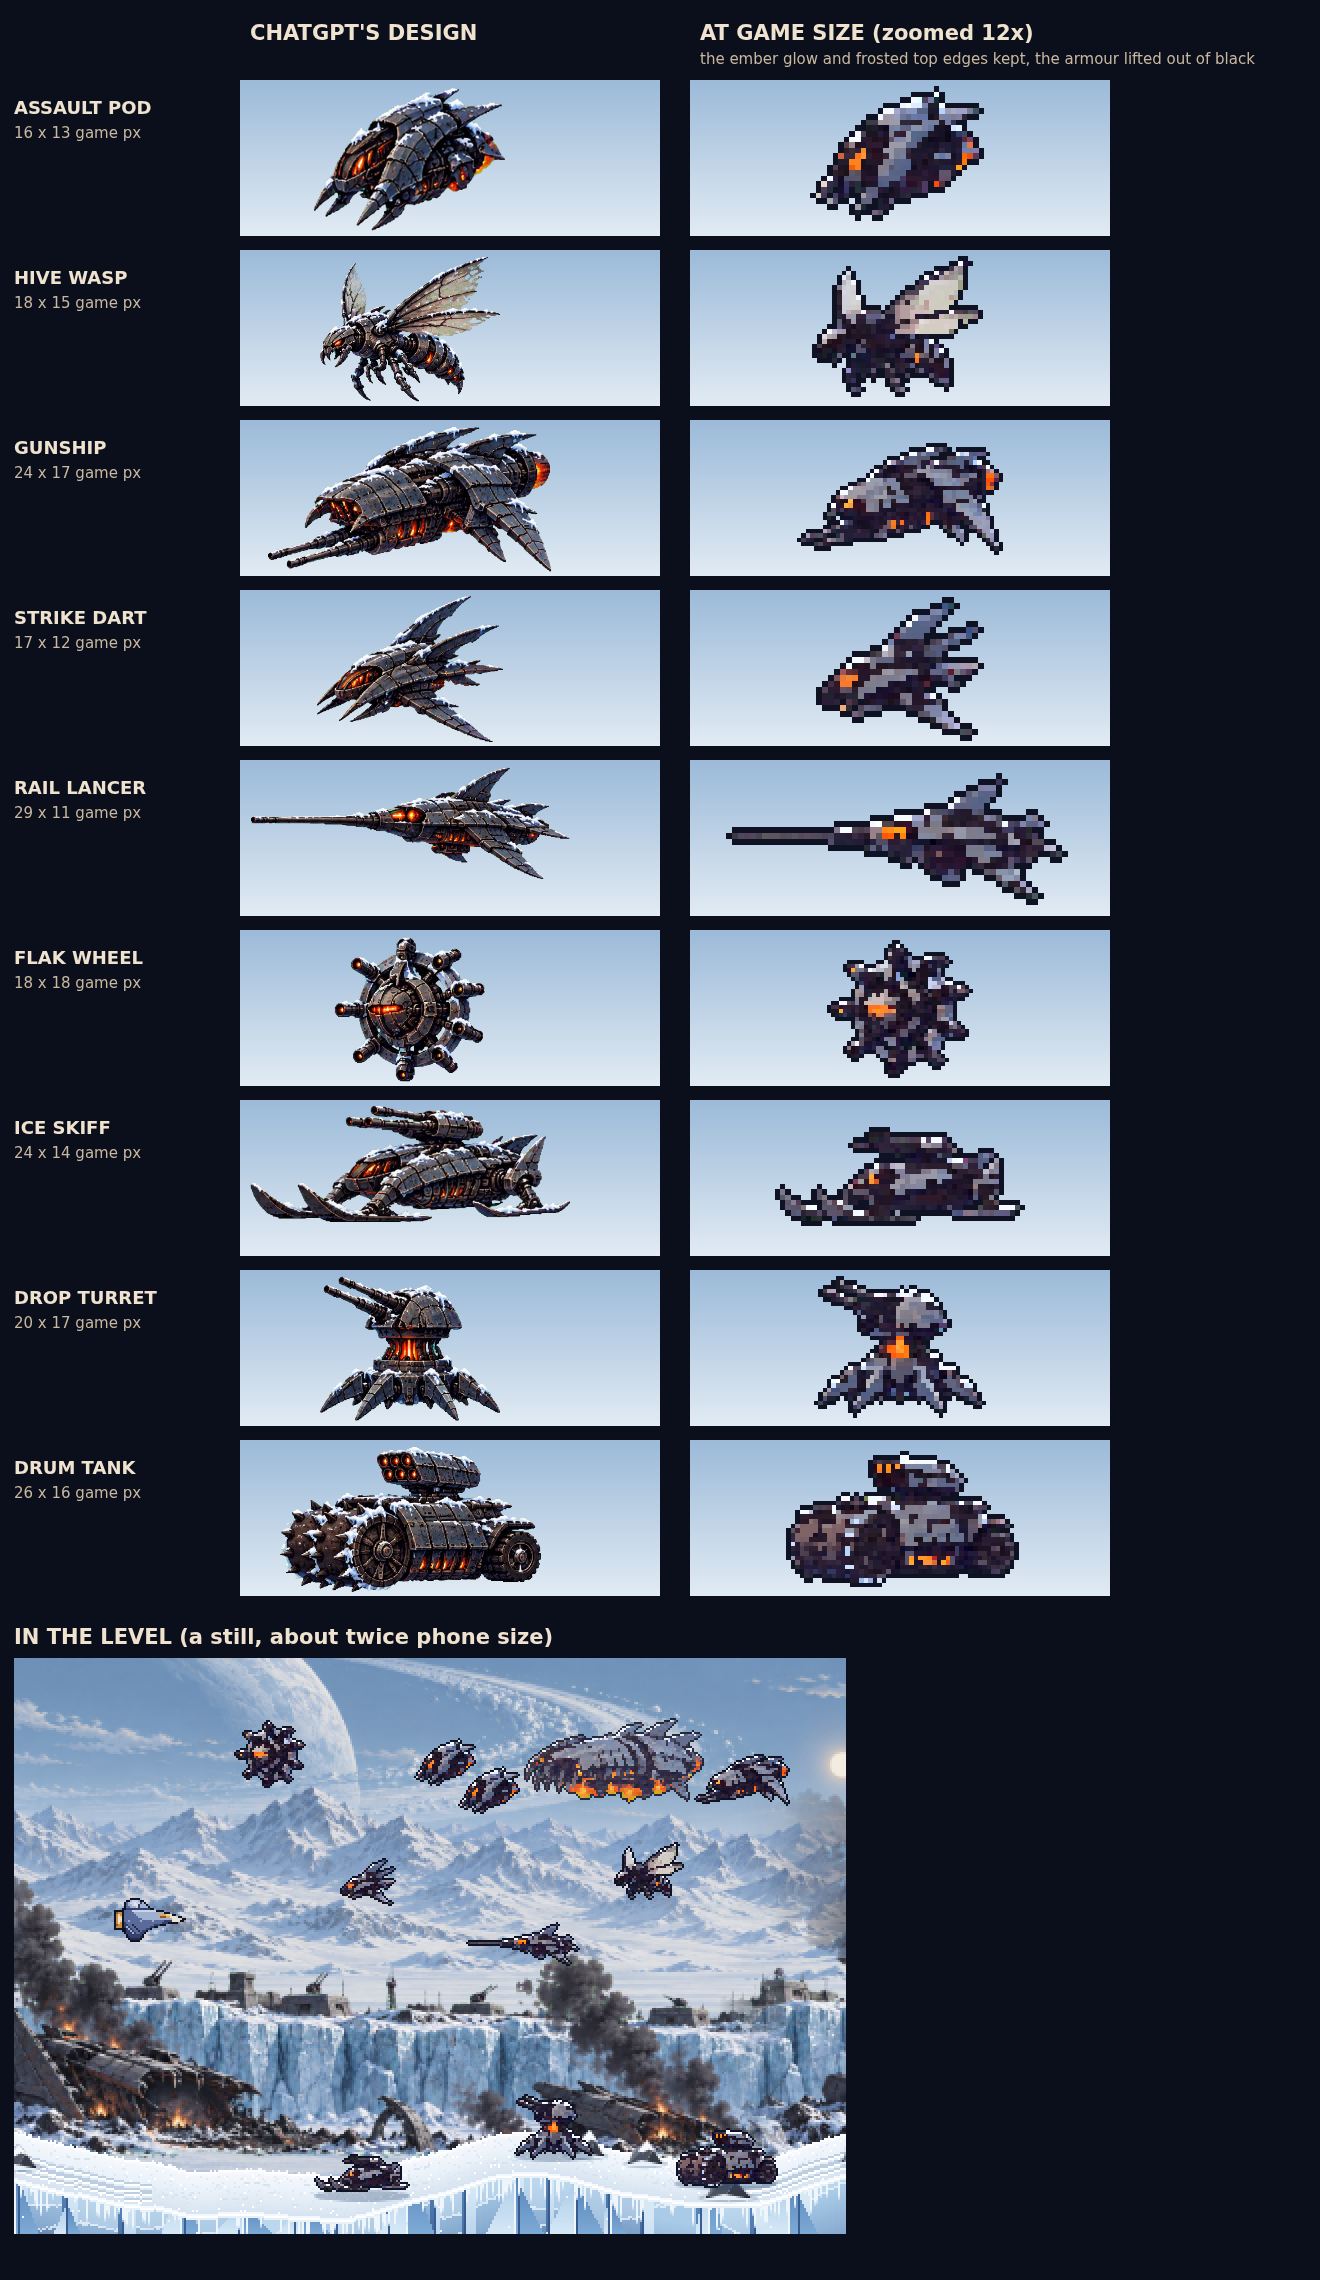
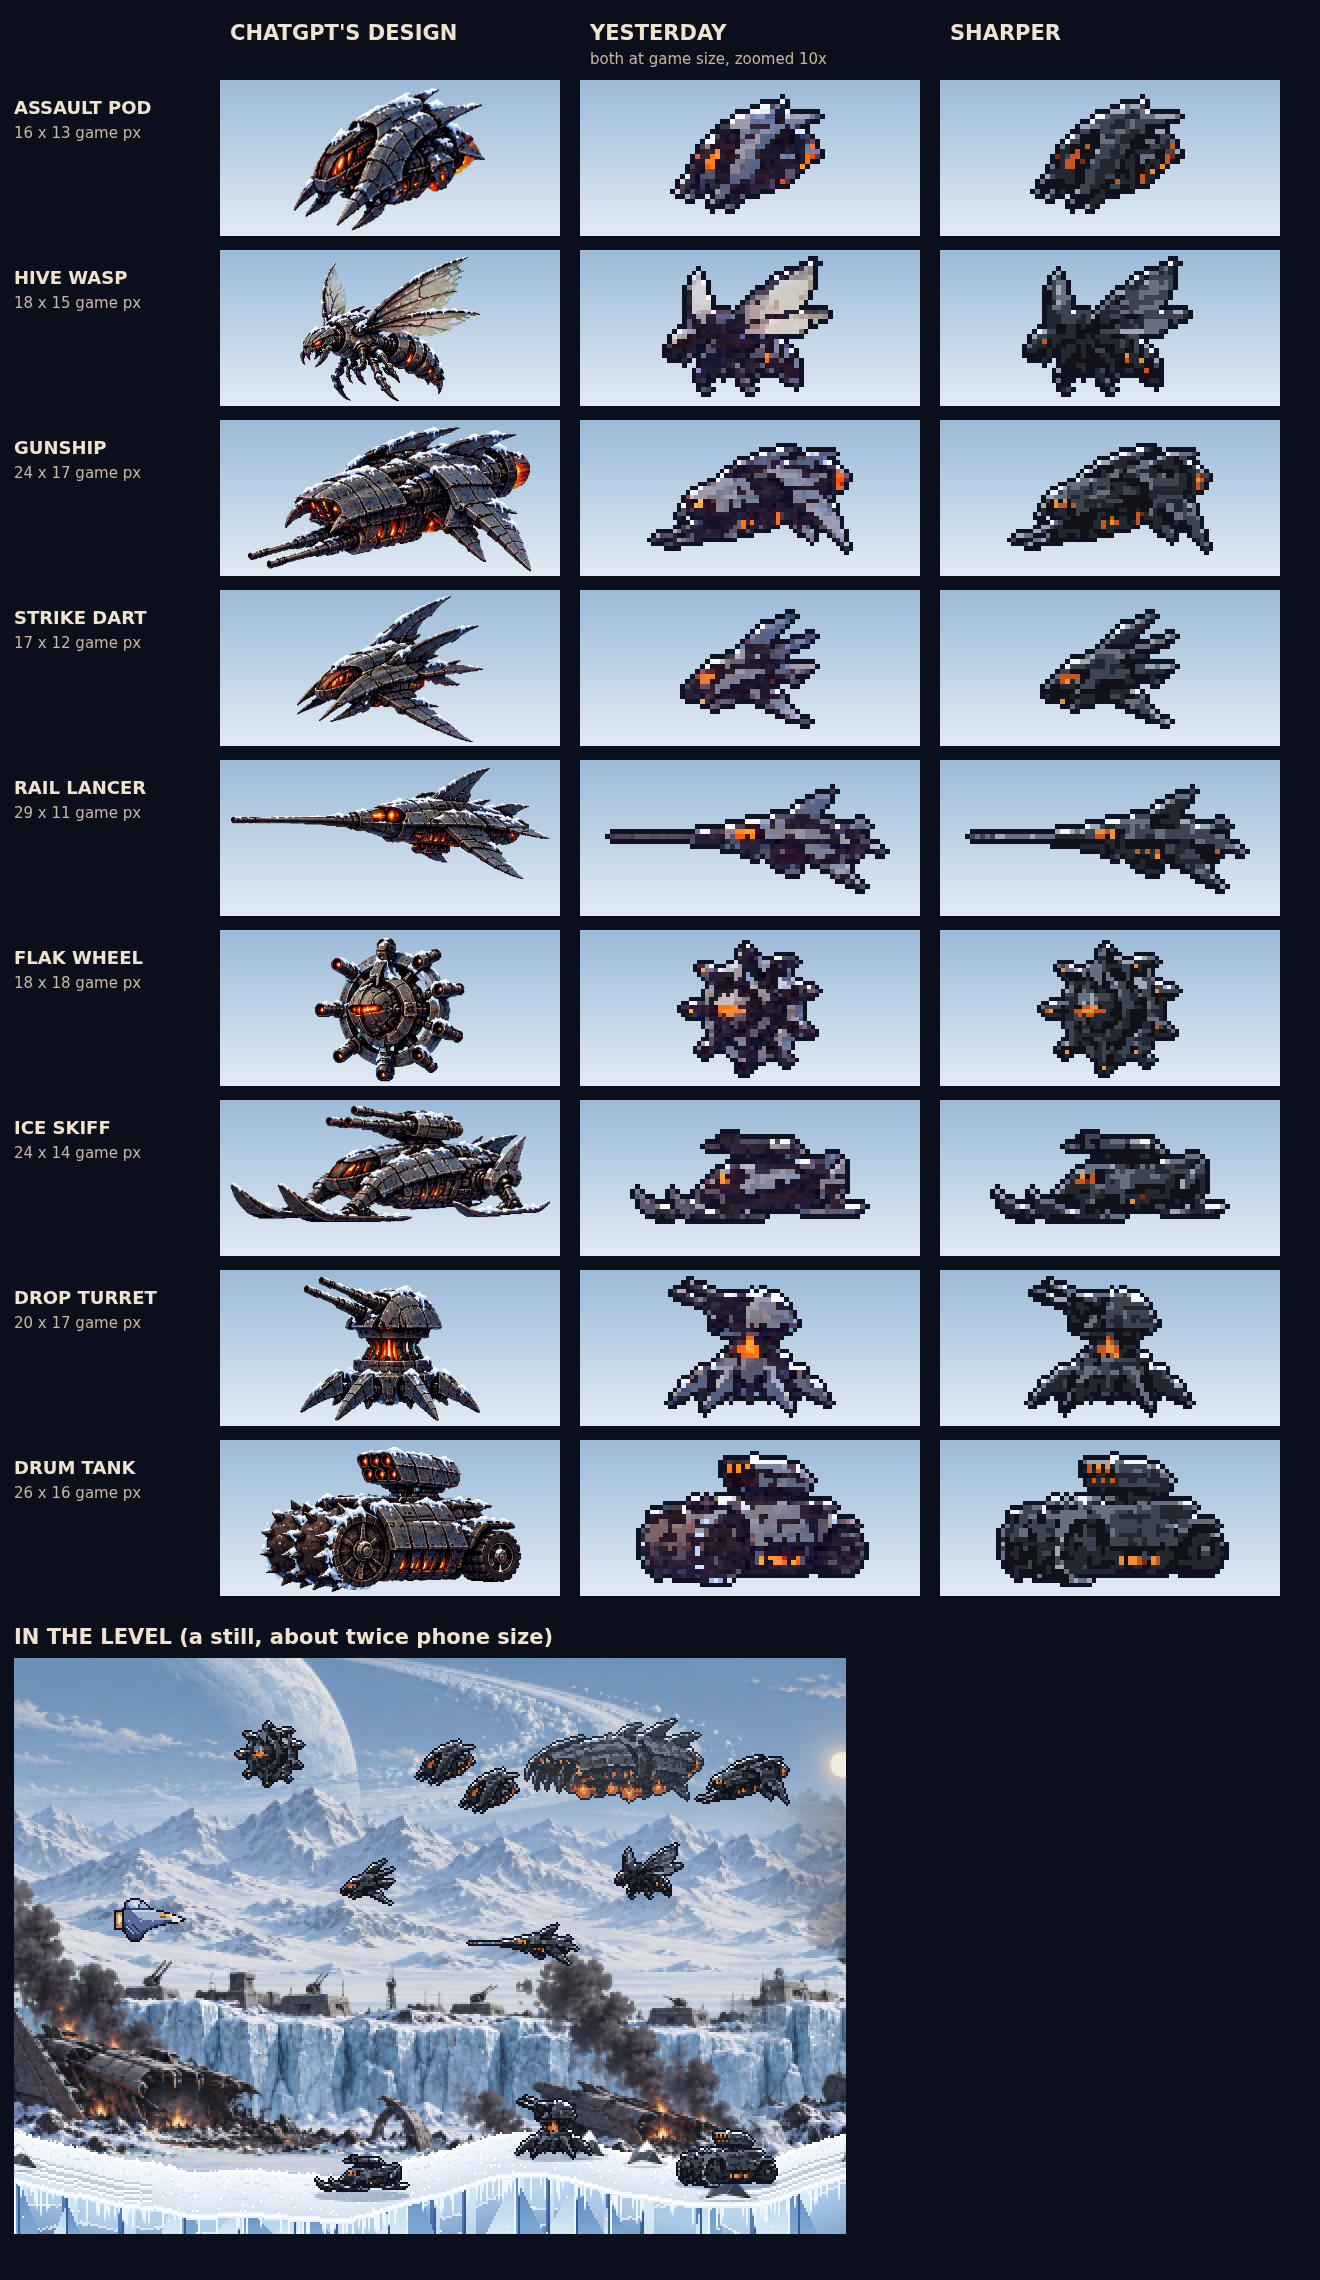
Level 4 army: sharper at the same size (five clean armour tones, plate edges sharpened, ember and frosted edges kept)
Claude-Session: https://claude.ai/code/session_018LoGNSpf9yPrdZyEJhPLuc

diff --git a/tools/white-front/cut-army.js b/tools/white-front/cut-army.js
@@ -124,6 +124,80 @@ function armyShrink(src, w, h) {
   return out;
 }
 
+// Sharp version: the same reading of each patch (ember wins, snow only on
+// top edges), but the armour is the patch's average brightness sorted into
+// five fixed tones, so plates come out as clean bands of one colour instead
+// of noisy near-blacks; then lone pixels are cleaned up.
+export let SHARPEN = 0.9;
+export const setSharpen = (v) => { SHARPEN = v; };
+const ARMOUR = [[20, 22, 28], [38, 42, 51], [64, 70, 83], [104, 113, 129], [158, 167, 182]];
+const EMBER = [[122, 48, 24], [194, 90, 36], [233, 143, 62], [246, 207, 134]];
+function armySharp(src, w, h) {
+  const sw = src.width, sh = src.height;
+  const d = src.getContext('2d').getImageData(0, 0, sw, sh).data;
+  const kind = new Uint8Array(w * h), lum = new Float32Array(w * h), eml = new Float32Array(w * h);
+  for (let ty = 0; ty < h; ty++) for (let tx = 0; tx < w; tx++) {
+    const x0 = Math.floor((tx * sw) / w), x1 = Math.max(x0 + 1, Math.floor(((tx + 1) * sw) / w));
+    const y0 = Math.floor((ty * sh) / h), y1 = Math.max(y0 + 1, Math.floor(((ty + 1) * sh) / h));
+    let all = 0, solid = 0, ne = 0, ns = 0, nm = 0, sl = 0, se = 0;
+    for (let y = y0; y < y1; y++) for (let x = x0; x < x1; x++) {
+      const i = (y * sw + x) * 4; all++; if (d[i + 3] < 128) continue; solid++;
+      const r = d[i], g = d[i + 1], b = d[i + 2];
+      if (r > 170 && r - b > 90 && g > 50) { ne++; se += 0.6 * r + 0.4 * g; continue; }
+      if (r > 195 && g > 200 && b > 205 && Math.max(r, g, b) - Math.min(r, g, b) < 40) { ns++; continue; }
+      nm++; sl += 0.3 * r + 0.59 * g + 0.11 * b;
+    }
+    const k = ty * w + tx;
+    if (solid < all * 0.4) continue;
+    if (ne >= solid * 0.1) { kind[k] = 2; eml[k] = se / ne; continue; }
+    if (ns >= solid * 0.5 || !nm) { kind[k] = 3; continue; }
+    kind[k] = 1; lum[k] = sl / nm;
+  }
+  // sharpen: push each patch away from its neighbours' average, so plate
+  // edges and seams stand out before the tones are chosen
+  const sharp = Float32Array.from(lum);
+  for (let y = 0; y < h; y++) for (let x = 0; x < w; x++) {
+    const k = y * w + x; if (kind[k] !== 1) continue;
+    let s2 = 0, n = 0;
+    for (const [dx, dy] of [[1, 0], [-1, 0], [0, 1], [0, -1], [1, 1], [-1, -1], [1, -1], [-1, 1]]) {
+      const X = x + dx, Y = y + dy; if (X < 0 || Y < 0 || X >= w || Y >= h) continue; const j = Y * w + X; if (kind[j] !== 1) continue; s2 += lum[j]; n++;
+    }
+    if (n) sharp[k] = lum[k] + SHARPEN * (lum[k] - s2 / n);
+  }
+  lum.set(sharp);
+  // tone thresholds from this sprite's own spread of brightness
+  const ls = []; for (let k = 0; k < w * h; k++) if (kind[k] === 1) ls.push(lum[k]);
+  ls.sort((a, b) => a - b);
+  const q = (f) => ls[Math.min(ls.length - 1, Math.floor(f * ls.length))] ?? 0;
+  const cut = [q(0.3), q(0.62), q(0.86), q(0.97)];
+  const tone = new Int8Array(w * h).fill(-1);
+  for (let k = 0; k < w * h; k++) if (kind[k] === 1) { let t = 0; while (t < 4 && lum[k] > cut[t]) t++; tone[k] = t; }
+  // snow only on top edges; elsewhere it becomes the light armour tone
+  for (let y = 0; y < h; y++) for (let x = 0; x < w; x++) {
+    const k = y * w + x; if (kind[k] !== 3) continue;
+    if (y > 0 && kind[k - w] && kind[k - w] !== 3) { kind[k] = 1; tone[k] = 3; }
+  }
+  // clean lone tones: a pixel unlike all its four neighbours takes their majority tone
+  const t2 = Int8Array.from(tone);
+  for (let y = 1; y < h - 1; y++) for (let x = 1; x < w - 1; x++) {
+    const k = y * w + x; if (kind[k] !== 1) continue;
+    const nb = [k - 1, k + 1, k - w, k + w].filter((j) => kind[j] === 1).map((j) => tone[j]);
+    if (nb.length < 3 || nb.includes(tone[k])) continue;
+    const cnt = {}; for (const t of nb) cnt[t] = (cnt[t] || 0) + 1;
+    const [bt, bc] = Object.entries(cnt).sort((a, b) => b[1] - a[1])[0]; if (bc >= 2) t2[k] = +bt;
+  }
+  const out = new Uint8ClampedArray(w * h * 4);
+  for (let y = 0; y < h; y++) for (let x = 0; x < w; x++) {
+    const k = y * w + x, o = k * 4; if (!kind[k]) continue;
+    let c;
+    if (kind[k] === 2) { const e = eml[k]; c = EMBER[e > 225 ? 3 : e > 195 ? 2 : e > 160 ? 1 : 0]; }
+    else if (kind[k] === 3) c = [236, 242, 248];
+    else { let t = t2[k]; if (y > 0 && !kind[k - w] && t < 3) t = Math.min(4, t + 2); c = ARMOUR[t]; } // lit top edge
+    out[o] = c[0]; out[o + 1] = c[1]; out[o + 2] = c[2]; out[o + 3] = 255;
+  }
+  return out;
+}
+
 // Remove lone stray pixels: a pixel unlike all four neighbours takes the
 // colour most of them share (keeps edges, cleans the noise).
 function despeckle(d, w, h) {
@@ -192,7 +266,7 @@ export async function cut(src, scale = 1, method = 'mode', order = ORDER, sizes 
     const TW = Math.round(sizes[name][0] * scale), TH = Math.round(sizes[name][1] * scale);
     // fit inside the box, leaving 1 pixel all round for the outline
     const k = Math.min((TW - 2) / bw, (TH - 2) / bh), w = Math.max(1, Math.round(bw * k)), h = Math.max(1, Math.round(bh * k));
-    const sd = method === 'army' ? despeckle(armyShrink(crop, w, h), w, h) : method === 'mode' ? despeckle(modeShrink(crop, w, h), w, h) : method === 'avg' ? (() => { const d = shrink(crop, w, h).getContext('2d').getImageData(0, 0, w, h).data; return d; })() : sharpShrink(crop, w, h);
+    const sd = method === 'sharp-army' ? armySharp(crop, w, h) : method === 'army' ? despeckle(armyShrink(crop, w, h), w, h) : method === 'mode' ? despeckle(modeShrink(crop, w, h), w, h) : method === 'avg' ? (() => { const d = shrink(crop, w, h).getContext('2d').getImageData(0, 0, w, h).data; return d; })() : sharpShrink(crop, w, h);
     const fin = document.createElement('canvas'); fin.width = TW; fin.height = TH;
     const fc = fin.getContext('2d'), fd = fc.createImageData(TW, TH);
     const ox = Math.floor((TW - w) / 2), oy = Math.floor((TH - h) / 2);
